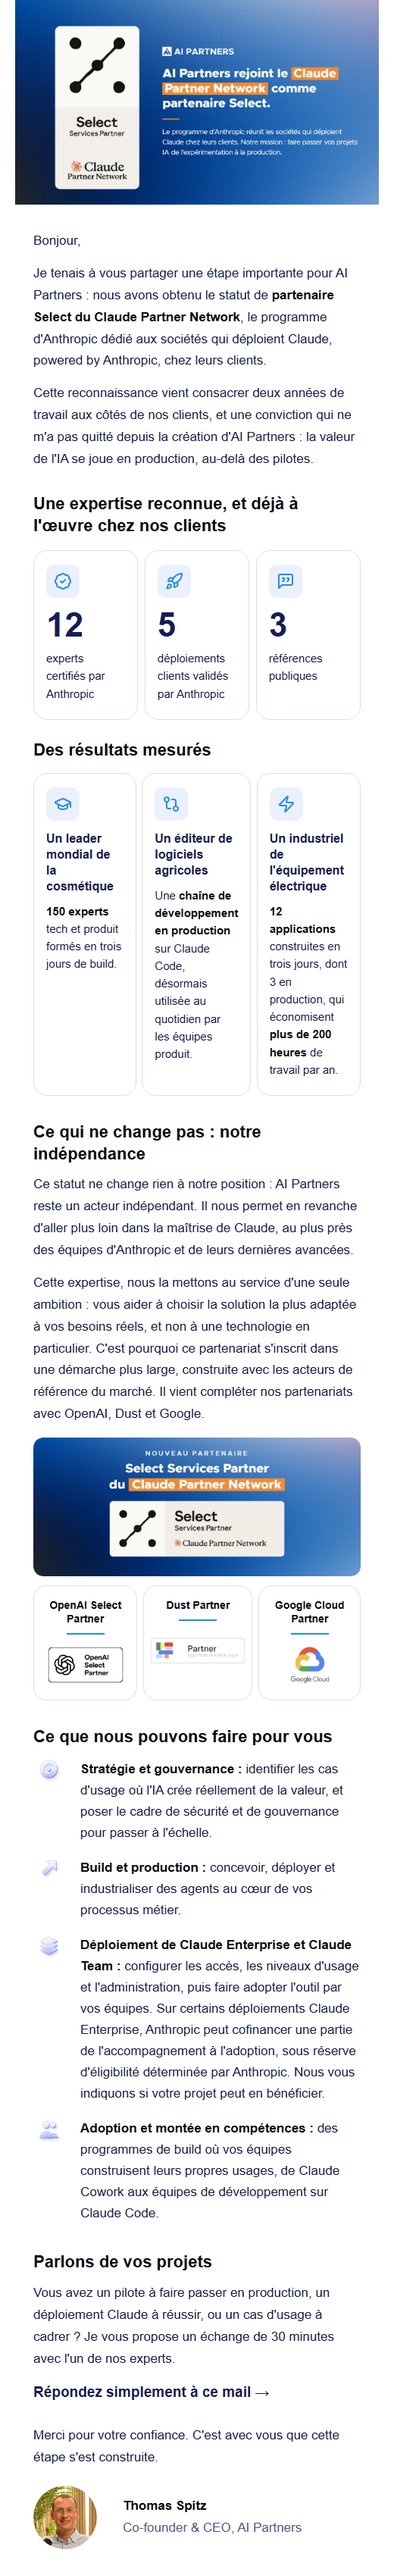
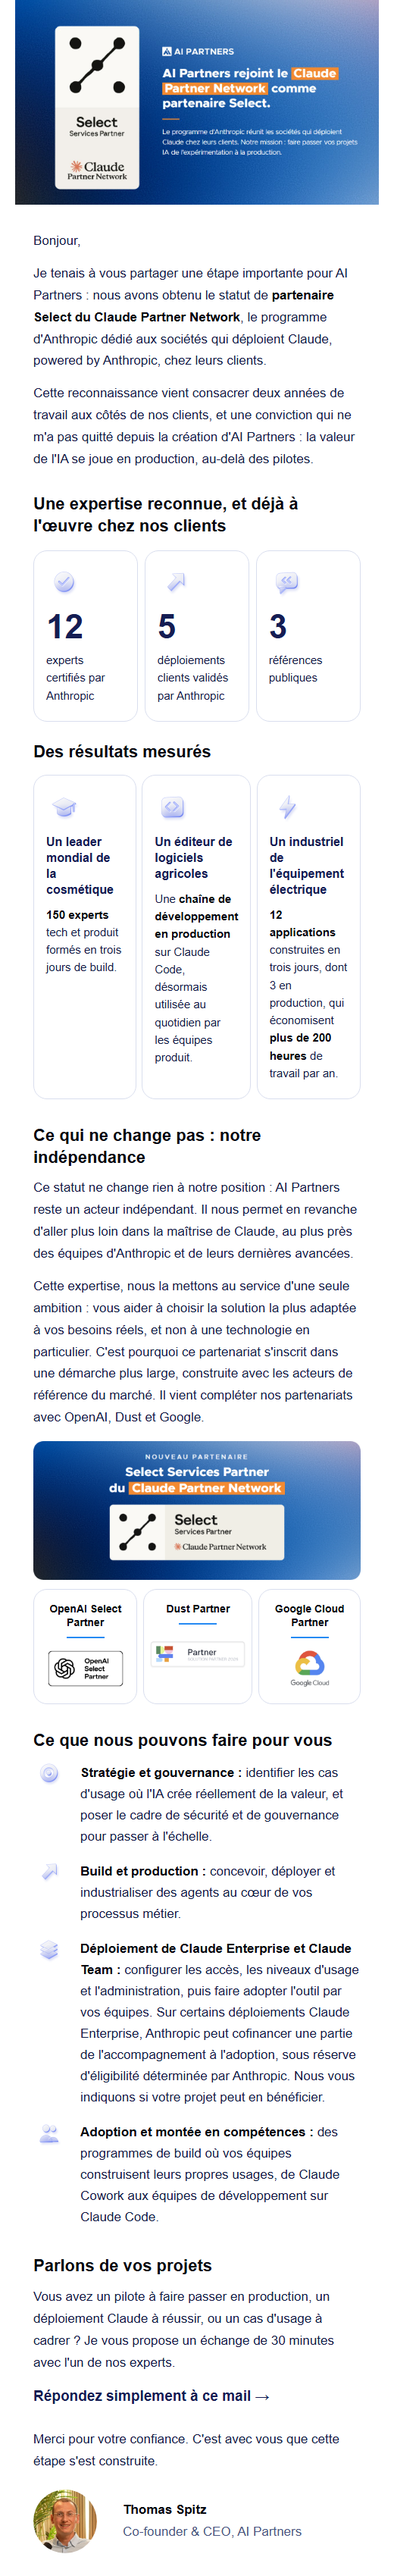
Mail d'annonce v2 : icônes en verre (style de la liste du bas) dans les carrés chiffres et résultats, nouvelles formes zap, toque, code (retour d'Arthur 16/11)

diff --git a/PRESENTATIONS/2026-11_newsletter_anthropic_select/v2/email_hubspot_module.html b/PRESENTATIONS/2026-11_newsletter_anthropic_select/v2/email_hubspot_module.html
@@ -6,9 +6,9 @@
 <tr><td style="padding:0 4px 14px 4px;font-family:Helvetica, Arial, sans-serif;font-size:17px;line-height:1.7;color:#141B45">Je tenais à vous partager une étape importante pour AI Partners&nbsp;: nous avons obtenu le statut de <strong style="color:#05070F">partenaire Select du Claude Partner Network</strong>, le programme d'Anthropic dédié aux sociétés qui déploient Claude, powered by Anthropic, chez leurs clients.</td></tr>
 <tr><td style="padding:0 4px 30px 4px;font-family:Helvetica, Arial, sans-serif;font-size:17px;line-height:1.7;color:#141B45">Cette reconnaissance vient consacrer deux années de travail aux côtés de nos clients, et une conviction qui ne m'a pas quitté depuis la création d'AI Partners&nbsp;: la valeur de l'IA se joue en production, au-delà des pilotes.</td></tr>
 <tr><td style="padding:0px 4px 12px 4px"><h2 style="margin:0;font-family:Helvetica, Arial, sans-serif;font-size:22px;line-height:1.3;font-weight:bold;color:#05070F">Une expertise reconnue, et déjà à l'œuvre chez nos clients</h2></td></tr>
-<tr><td style="padding:6px 4px 26px 4px"><table role="presentation" width="100%" cellpadding="0" cellspacing="0" style="border-collapse:separate"><tr><td valign="top" width="32%" bgcolor="#FFFFFF" style="width:32%;background-color:#FFFFFF;border:1px solid #D9DEEE;border-radius:18px;padding:18px 16px 22px 16px;font-family:Helvetica, Arial, sans-serif;font-size:15px;line-height:1.55;color:#141B45;text-align:left"><img src="https://arthurw31.github.io/ai-partners-podcast-content-machine/newsletters/anthropic-select/v2/pastille_badge-check.png" width="44" height="44" alt="" style="display:block;border:0;width:44px;height:44px;margin:0 0 14px 0"><div style="font-size:44px;line-height:1;font-weight:bold;color:#151D53">12</div><div style="padding-top:10px">experts certifiés par Anthropic</div></td><td width="2%" style="width:2%;font-size:0;line-height:0">&nbsp;</td><td valign="top" width="32%" bgcolor="#FFFFFF" style="width:32%;background-color:#FFFFFF;border:1px solid #D9DEEE;border-radius:18px;padding:18px 16px 22px 16px;font-family:Helvetica, Arial, sans-serif;font-size:15px;line-height:1.55;color:#141B45;text-align:left"><img src="https://arthurw31.github.io/ai-partners-podcast-content-machine/newsletters/anthropic-select/v2/pastille_rocket.png" width="44" height="44" alt="" style="display:block;border:0;width:44px;height:44px;margin:0 0 14px 0"><div style="font-size:44px;line-height:1;font-weight:bold;color:#151D53">5</div><div style="padding-top:10px">déploiements clients validés par Anthropic</div></td><td width="2%" style="width:2%;font-size:0;line-height:0">&nbsp;</td><td valign="top" width="32%" bgcolor="#FFFFFF" style="width:32%;background-color:#FFFFFF;border:1px solid #D9DEEE;border-radius:18px;padding:18px 16px 22px 16px;font-family:Helvetica, Arial, sans-serif;font-size:15px;line-height:1.55;color:#141B45;text-align:left"><img src="https://arthurw31.github.io/ai-partners-podcast-content-machine/newsletters/anthropic-select/v2/pastille_message-square-quote.png" width="44" height="44" alt="" style="display:block;border:0;width:44px;height:44px;margin:0 0 14px 0"><div style="font-size:44px;line-height:1;font-weight:bold;color:#151D53">3</div><div style="padding-top:10px">références publiques</div></td></tr></table></td></tr>
+<tr><td style="padding:6px 4px 26px 4px"><table role="presentation" width="100%" cellpadding="0" cellspacing="0" style="border-collapse:separate"><tr><td valign="top" width="32%" bgcolor="#FFFFFF" style="width:32%;background-color:#FFFFFF;border:1px solid #D9DEEE;border-radius:18px;padding:18px 16px 22px 16px;font-family:Helvetica, Arial, sans-serif;font-size:15px;line-height:1.55;color:#141B45;text-align:left"><img src="https://arthurw31.github.io/ai-partners-podcast-content-machine/newsletters/anthropic-select/v2/verre_badge-check_48.png" width="48" height="48" alt="" style="display:block;border:0;width:48px;height:48px;margin:0 0 12px 0"><div style="font-size:44px;line-height:1;font-weight:bold;color:#151D53">12</div><div style="padding-top:10px">experts certifiés par Anthropic</div></td><td width="2%" style="width:2%;font-size:0;line-height:0">&nbsp;</td><td valign="top" width="32%" bgcolor="#FFFFFF" style="width:32%;background-color:#FFFFFF;border:1px solid #D9DEEE;border-radius:18px;padding:18px 16px 22px 16px;font-family:Helvetica, Arial, sans-serif;font-size:15px;line-height:1.55;color:#141B45;text-align:left"><img src="https://arthurw31.github.io/ai-partners-podcast-content-machine/newsletters/anthropic-select/v2/verre_rocket_48.png" width="48" height="48" alt="" style="display:block;border:0;width:48px;height:48px;margin:0 0 12px 0"><div style="font-size:44px;line-height:1;font-weight:bold;color:#151D53">5</div><div style="padding-top:10px">déploiements clients validés par Anthropic</div></td><td width="2%" style="width:2%;font-size:0;line-height:0">&nbsp;</td><td valign="top" width="32%" bgcolor="#FFFFFF" style="width:32%;background-color:#FFFFFF;border:1px solid #D9DEEE;border-radius:18px;padding:18px 16px 22px 16px;font-family:Helvetica, Arial, sans-serif;font-size:15px;line-height:1.55;color:#141B45;text-align:left"><img src="https://arthurw31.github.io/ai-partners-podcast-content-machine/newsletters/anthropic-select/v2/verre_message-square-quote_48.png" width="48" height="48" alt="" style="display:block;border:0;width:48px;height:48px;margin:0 0 12px 0"><div style="font-size:44px;line-height:1;font-weight:bold;color:#151D53">3</div><div style="padding-top:10px">références publiques</div></td></tr></table></td></tr>
 <tr><td style="padding:0px 4px 12px 4px"><h2 style="margin:0;font-family:Helvetica, Arial, sans-serif;font-size:22px;line-height:1.3;font-weight:bold;color:#05070F">Des résultats mesurés</h2></td></tr>
-<tr><td style="padding:4px 4px 34px 4px"><table role="presentation" width="100%" cellpadding="0" cellspacing="0" style="border-collapse:separate"><tr><td valign="top" width="32%" bgcolor="#FFFFFF" style="width:32%;background-color:#FFFFFF;border:1px solid #D9DEEE;border-radius:18px;padding:18px 16px 22px 16px;font-family:Helvetica, Arial, sans-serif;font-size:15px;line-height:1.55;color:#141B45;text-align:left"><img src="https://arthurw31.github.io/ai-partners-podcast-content-machine/newsletters/anthropic-select/v2/pastille_graduation-cap.png" width="44" height="44" alt="" style="display:block;border:0;width:44px;height:44px;margin:0 0 14px 0"><div style="padding:0 0 10px 0;font-size:16px;line-height:1.3;font-weight:bold;color:#151D53">Un leader mondial de la cosmétique</div><strong style="color:#05070F">150 experts</strong> tech et produit formés en trois jours de build.</td><td width="2%" style="width:2%;font-size:0;line-height:0">&nbsp;</td><td valign="top" width="32%" bgcolor="#FFFFFF" style="width:32%;background-color:#FFFFFF;border:1px solid #D9DEEE;border-radius:18px;padding:18px 16px 22px 16px;font-family:Helvetica, Arial, sans-serif;font-size:15px;line-height:1.55;color:#141B45;text-align:left"><img src="https://arthurw31.github.io/ai-partners-podcast-content-machine/newsletters/anthropic-select/v2/pastille_git-compare.png" width="44" height="44" alt="" style="display:block;border:0;width:44px;height:44px;margin:0 0 14px 0"><div style="padding:0 0 10px 0;font-size:16px;line-height:1.3;font-weight:bold;color:#151D53">Un éditeur de logiciels agricoles</div>Une <strong style="color:#05070F">chaîne de développement en production</strong> sur Claude Code, désormais utilisée au quotidien par les équipes produit.</td><td width="2%" style="width:2%;font-size:0;line-height:0">&nbsp;</td><td valign="top" width="32%" bgcolor="#FFFFFF" style="width:32%;background-color:#FFFFFF;border:1px solid #D9DEEE;border-radius:18px;padding:18px 16px 22px 16px;font-family:Helvetica, Arial, sans-serif;font-size:15px;line-height:1.55;color:#141B45;text-align:left"><img src="https://arthurw31.github.io/ai-partners-podcast-content-machine/newsletters/anthropic-select/v2/pastille_zap.png" width="44" height="44" alt="" style="display:block;border:0;width:44px;height:44px;margin:0 0 14px 0"><div style="padding:0 0 10px 0;font-size:16px;line-height:1.3;font-weight:bold;color:#151D53">Un industriel de l'équipement électrique</div><strong style="color:#05070F">12 applications</strong> construites en trois jours, dont 3 en production, qui économisent <strong style="color:#05070F">plus de 200 heures</strong> de travail par an.</td></tr></table></td></tr>
+<tr><td style="padding:4px 4px 34px 4px"><table role="presentation" width="100%" cellpadding="0" cellspacing="0" style="border-collapse:separate"><tr><td valign="top" width="32%" bgcolor="#FFFFFF" style="width:32%;background-color:#FFFFFF;border:1px solid #D9DEEE;border-radius:18px;padding:18px 16px 22px 16px;font-family:Helvetica, Arial, sans-serif;font-size:15px;line-height:1.55;color:#141B45;text-align:left"><img src="https://arthurw31.github.io/ai-partners-podcast-content-machine/newsletters/anthropic-select/v2/verre_graduation-cap_48.png" width="48" height="48" alt="" style="display:block;border:0;width:48px;height:48px;margin:0 0 12px 0"><div style="padding:0 0 10px 0;font-size:16px;line-height:1.3;font-weight:bold;color:#151D53">Un leader mondial de la cosmétique</div><strong style="color:#05070F">150 experts</strong> tech et produit formés en trois jours de build.</td><td width="2%" style="width:2%;font-size:0;line-height:0">&nbsp;</td><td valign="top" width="32%" bgcolor="#FFFFFF" style="width:32%;background-color:#FFFFFF;border:1px solid #D9DEEE;border-radius:18px;padding:18px 16px 22px 16px;font-family:Helvetica, Arial, sans-serif;font-size:15px;line-height:1.55;color:#141B45;text-align:left"><img src="https://arthurw31.github.io/ai-partners-podcast-content-machine/newsletters/anthropic-select/v2/verre_code_48.png" width="48" height="48" alt="" style="display:block;border:0;width:48px;height:48px;margin:0 0 12px 0"><div style="padding:0 0 10px 0;font-size:16px;line-height:1.3;font-weight:bold;color:#151D53">Un éditeur de logiciels agricoles</div>Une <strong style="color:#05070F">chaîne de développement en production</strong> sur Claude Code, désormais utilisée au quotidien par les équipes produit.</td><td width="2%" style="width:2%;font-size:0;line-height:0">&nbsp;</td><td valign="top" width="32%" bgcolor="#FFFFFF" style="width:32%;background-color:#FFFFFF;border:1px solid #D9DEEE;border-radius:18px;padding:18px 16px 22px 16px;font-family:Helvetica, Arial, sans-serif;font-size:15px;line-height:1.55;color:#141B45;text-align:left"><img src="https://arthurw31.github.io/ai-partners-podcast-content-machine/newsletters/anthropic-select/v2/verre_zap_48.png" width="48" height="48" alt="" style="display:block;border:0;width:48px;height:48px;margin:0 0 12px 0"><div style="padding:0 0 10px 0;font-size:16px;line-height:1.3;font-weight:bold;color:#151D53">Un industriel de l'équipement électrique</div><strong style="color:#05070F">12 applications</strong> construites en trois jours, dont 3 en production, qui économisent <strong style="color:#05070F">plus de 200 heures</strong> de travail par an.</td></tr></table></td></tr>
 <tr><td style="padding:0px 4px 12px 4px"><h2 style="margin:0;font-family:Helvetica, Arial, sans-serif;font-size:22px;line-height:1.3;font-weight:bold;color:#05070F">Ce qui ne change pas&nbsp;: notre indépendance</h2></td></tr><tr><td style="padding:0 4px 14px 4px;font-family:Helvetica, Arial, sans-serif;font-size:17px;line-height:1.7;color:#141B45">Ce statut ne change rien à notre position&nbsp;: AI Partners reste un acteur indépendant. Il nous permet en revanche d'aller plus loin dans la maîtrise de Claude, au plus près des équipes d'Anthropic et de leurs dernières avancées.</td></tr><tr><td style="padding:0 4px 16px 4px;font-family:Helvetica, Arial, sans-serif;font-size:17px;line-height:1.7;color:#141B45">Cette expertise, nous la mettons au service d'une seule ambition&nbsp;: vous aider à choisir la solution la plus adaptée à vos besoins réels, et non à une technologie en particulier. C'est pourquoi ce partenariat s'inscrit dans une démarche plus large, construite avec les acteurs de référence du marché. Il vient compléter nos partenariats avec OpenAI, Dust et Google.</td></tr><tr><td style="padding:0 4px 34px 4px"><img src="https://arthurw31.github.io/ai-partners-podcast-content-machine/newsletters/anthropic-select/v2/encadre_nouveau_partenaire.png" width="592" height="250" alt="Nouveau partenaire : Select Services Partner du Claude Partner Network" style="display:block;border:0;width:592px;height:250px;width:100%;max-width:592px;height:auto"><div style="height:12px;font-size:0;line-height:0">&nbsp;</div><table role="presentation" width="100%" cellpadding="0" cellspacing="0" style="border-collapse:separate"><tr><td width="32%" valign="top" align="center" bgcolor="#FFFFFF" style="width:32%;border:1px solid #D9DEEE;border-radius:18px;padding:16px 6px 18px 6px;font-family:Helvetica, Arial, sans-serif;text-align:center"><div style="font-size:14px;line-height:1.3;font-weight:bold;color:#05070F">OpenAI Select Partner</div><table role="presentation" align="center" cellpadding="0" cellspacing="0" style="margin:10px auto 12px auto"><tr><td width="50" height="2" bgcolor="#258AF3" style="width:50px;height:2px;font-size:0;line-height:0">&nbsp;</td></tr></table><table role="presentation" align="center" cellpadding="0" cellspacing="0"><tr><td height="56" valign="middle" align="center" style="height:56px"><img src="https://arthurw31.github.io/ai-partners-podcast-content-machine/newsletters/anthropic-select/v2/partenaire_openai.png" width="106" height="54" alt="OpenAI Select Partner" style="display:block;border:0;width:106px;height:54px;"></td></tr></table></td><td width="2%" style="width:2%;font-size:0;line-height:0">&nbsp;</td><td width="32%" valign="top" align="center" bgcolor="#FFFFFF" style="width:32%;border:1px solid #D9DEEE;border-radius:18px;padding:16px 6px 18px 6px;font-family:Helvetica, Arial, sans-serif;text-align:center"><div style="font-size:14px;line-height:1.3;font-weight:bold;color:#05070F">Dust Partner</div><table role="presentation" align="center" cellpadding="0" cellspacing="0" style="margin:10px auto 12px auto"><tr><td width="50" height="2" bgcolor="#258AF3" style="width:50px;height:2px;font-size:0;line-height:0">&nbsp;</td></tr></table><table role="presentation" align="center" cellpadding="0" cellspacing="0"><tr><td height="56" valign="middle" align="center" style="height:56px"><img src="https://arthurw31.github.io/ai-partners-podcast-content-machine/newsletters/anthropic-select/v2/partenaire_dust.png" width="130" height="39" alt="Dust Partner" style="display:block;border:0;width:130px;height:39px;"></td></tr></table></td><td width="2%" style="width:2%;font-size:0;line-height:0">&nbsp;</td><td width="32%" valign="top" align="center" bgcolor="#FFFFFF" style="width:32%;border:1px solid #D9DEEE;border-radius:18px;padding:16px 6px 18px 6px;font-family:Helvetica, Arial, sans-serif;text-align:center"><div style="font-size:14px;line-height:1.3;font-weight:bold;color:#05070F">Google Cloud Partner</div><table role="presentation" align="center" cellpadding="0" cellspacing="0" style="margin:10px auto 12px auto"><tr><td width="50" height="2" bgcolor="#258AF3" style="width:50px;height:2px;font-size:0;line-height:0">&nbsp;</td></tr></table><table role="presentation" align="center" cellpadding="0" cellspacing="0"><tr><td height="56" valign="middle" align="center" style="height:56px"><img src="https://arthurw31.github.io/ai-partners-podcast-content-machine/newsletters/anthropic-select/v2/partenaire_google.png" width="58" height="56" alt="Google Cloud Partner" style="display:block;border:0;width:58px;height:56px;"></td></tr></table></td></tr></table></td></tr>
 <tr><td style="padding:0px 4px 12px 4px"><h2 style="margin:0;font-family:Helvetica, Arial, sans-serif;font-size:22px;line-height:1.3;font-weight:bold;color:#05070F">Ce que nous pouvons faire pour vous</h2></td></tr>
 <tr><td style="padding:0 4px 26px 4px"><table role="presentation" width="100%" cellpadding="0" cellspacing="0"><tr><td style="padding:2px 0 2px 0;font-family:Helvetica, Arial, sans-serif;font-size:17px;line-height:1.65;color:#141B45"><table role="presentation" width="100%" cellpadding="0" cellspacing="0"><tr><td valign="top" width="52" style="width:52px;padding:0 10px 0 0"><img src="https://arthurw31.github.io/ai-partners-podcast-content-machine/newsletters/anthropic-select/v2/verre_target_42.png" width="42" height="42" alt="" style="display:block;border:0;width:42px;height:42px;margin-top:-6px"></td><td valign="top" style="padding:0 0 18px 0;font-family:Helvetica, Arial, sans-serif;font-size:17px;line-height:1.65;color:#141B45"><strong style="color:#05070F">Stratégie et gouvernance&nbsp;:</strong> identifier les cas d'usage où l'IA crée réellement de la valeur, et poser le cadre de sécurité et de gouvernance pour passer à l'échelle.</td></tr></table><table role="presentation" width="100%" cellpadding="0" cellspacing="0"><tr><td valign="top" width="52" style="width:52px;padding:0 10px 0 0"><img src="https://arthurw31.github.io/ai-partners-podcast-content-machine/newsletters/anthropic-select/v2/verre_rocket_42.png" width="42" height="42" alt="" style="display:block;border:0;width:42px;height:42px;margin-top:-6px"></td><td valign="top" style="padding:0 0 18px 0;font-family:Helvetica, Arial, sans-serif;font-size:17px;line-height:1.65;color:#141B45"><strong style="color:#05070F">Build et production&nbsp;:</strong> concevoir, déployer et industrialiser des agents au cœur de vos processus métier.</td></tr></table><table role="presentation" width="100%" cellpadding="0" cellspacing="0"><tr><td valign="top" width="52" style="width:52px;padding:0 10px 0 0"><img src="https://arthurw31.github.io/ai-partners-podcast-content-machine/newsletters/anthropic-select/v2/verre_layers_42.png" width="42" height="42" alt="" style="display:block;border:0;width:42px;height:42px;margin-top:-6px"></td><td valign="top" style="padding:0 0 18px 0;font-family:Helvetica, Arial, sans-serif;font-size:17px;line-height:1.65;color:#141B45"><strong style="color:#05070F">Déploiement de Claude Enterprise et Claude Team&nbsp;:</strong> configurer les accès, les niveaux d'usage et l'administration, puis faire adopter l'outil par vos équipes. Sur certains déploiements Claude Enterprise, Anthropic peut cofinancer une partie de l'accompagnement à l'adoption, sous réserve d'éligibilité déterminée par Anthropic. Nous vous indiquons si votre projet peut en bénéficier.</td></tr></table><table role="presentation" width="100%" cellpadding="0" cellspacing="0"><tr><td valign="top" width="52" style="width:52px;padding:0 10px 0 0"><img src="https://arthurw31.github.io/ai-partners-podcast-content-machine/newsletters/anthropic-select/v2/verre_users_42.png" width="42" height="42" alt="" style="display:block;border:0;width:42px;height:42px;margin-top:-6px"></td><td valign="top" style="padding:0 0 0 0;font-family:Helvetica, Arial, sans-serif;font-size:17px;line-height:1.65;color:#141B45"><strong style="color:#05070F">Adoption et montée en compétences&nbsp;:</strong> des programmes de build où vos équipes construisent leurs propres usages, de Claude Cowork aux équipes de développement sur Claude Code.</td></tr></table></td></tr></table></td></tr>

diff --git a/PRESENTATIONS/2026-11_newsletter_anthropic_select/v2/email.html b/PRESENTATIONS/2026-11_newsletter_anthropic_select/v2/email.html
@@ -10,9 +10,9 @@
 <tr><td style="padding:0 4px 14px 4px;font-family:Helvetica, Arial, sans-serif;font-size:17px;line-height:1.7;color:#141B45">Je tenais à vous partager une étape importante pour AI Partners&nbsp;: nous avons obtenu le statut de <strong style="color:#05070F">partenaire Select du Claude Partner Network</strong>, le programme d'Anthropic dédié aux sociétés qui déploient Claude, powered by Anthropic, chez leurs clients.</td></tr>
 <tr><td style="padding:0 4px 30px 4px;font-family:Helvetica, Arial, sans-serif;font-size:17px;line-height:1.7;color:#141B45">Cette reconnaissance vient consacrer deux années de travail aux côtés de nos clients, et une conviction qui ne m'a pas quitté depuis la création d'AI Partners&nbsp;: la valeur de l'IA se joue en production, au-delà des pilotes.</td></tr>
 <tr><td style="padding:0px 4px 12px 4px"><h2 style="margin:0;font-family:Helvetica, Arial, sans-serif;font-size:22px;line-height:1.3;font-weight:bold;color:#05070F">Une expertise reconnue, et déjà à l'œuvre chez nos clients</h2></td></tr>
-<tr><td style="padding:6px 4px 26px 4px"><table role="presentation" width="100%" cellpadding="0" cellspacing="0" style="border-collapse:separate"><tr><td valign="top" width="32%" bgcolor="#FFFFFF" style="width:32%;background-color:#FFFFFF;border:1px solid #D9DEEE;border-radius:18px;padding:18px 16px 22px 16px;font-family:Helvetica, Arial, sans-serif;font-size:15px;line-height:1.55;color:#141B45;text-align:left"><img src="images/pastille_badge-check.png" width="44" height="44" alt="" style="display:block;border:0;width:44px;height:44px;margin:0 0 14px 0"><div style="font-size:44px;line-height:1;font-weight:bold;color:#151D53">12</div><div style="padding-top:10px">experts certifiés par Anthropic</div></td><td width="2%" style="width:2%;font-size:0;line-height:0">&nbsp;</td><td valign="top" width="32%" bgcolor="#FFFFFF" style="width:32%;background-color:#FFFFFF;border:1px solid #D9DEEE;border-radius:18px;padding:18px 16px 22px 16px;font-family:Helvetica, Arial, sans-serif;font-size:15px;line-height:1.55;color:#141B45;text-align:left"><img src="images/pastille_rocket.png" width="44" height="44" alt="" style="display:block;border:0;width:44px;height:44px;margin:0 0 14px 0"><div style="font-size:44px;line-height:1;font-weight:bold;color:#151D53">5</div><div style="padding-top:10px">déploiements clients validés par Anthropic</div></td><td width="2%" style="width:2%;font-size:0;line-height:0">&nbsp;</td><td valign="top" width="32%" bgcolor="#FFFFFF" style="width:32%;background-color:#FFFFFF;border:1px solid #D9DEEE;border-radius:18px;padding:18px 16px 22px 16px;font-family:Helvetica, Arial, sans-serif;font-size:15px;line-height:1.55;color:#141B45;text-align:left"><img src="images/pastille_message-square-quote.png" width="44" height="44" alt="" style="display:block;border:0;width:44px;height:44px;margin:0 0 14px 0"><div style="font-size:44px;line-height:1;font-weight:bold;color:#151D53">3</div><div style="padding-top:10px">références publiques</div></td></tr></table></td></tr>
+<tr><td style="padding:6px 4px 26px 4px"><table role="presentation" width="100%" cellpadding="0" cellspacing="0" style="border-collapse:separate"><tr><td valign="top" width="32%" bgcolor="#FFFFFF" style="width:32%;background-color:#FFFFFF;border:1px solid #D9DEEE;border-radius:18px;padding:18px 16px 22px 16px;font-family:Helvetica, Arial, sans-serif;font-size:15px;line-height:1.55;color:#141B45;text-align:left"><img src="images/verre_badge-check_48.png" width="48" height="48" alt="" style="display:block;border:0;width:48px;height:48px;margin:0 0 12px 0"><div style="font-size:44px;line-height:1;font-weight:bold;color:#151D53">12</div><div style="padding-top:10px">experts certifiés par Anthropic</div></td><td width="2%" style="width:2%;font-size:0;line-height:0">&nbsp;</td><td valign="top" width="32%" bgcolor="#FFFFFF" style="width:32%;background-color:#FFFFFF;border:1px solid #D9DEEE;border-radius:18px;padding:18px 16px 22px 16px;font-family:Helvetica, Arial, sans-serif;font-size:15px;line-height:1.55;color:#141B45;text-align:left"><img src="images/verre_rocket_48.png" width="48" height="48" alt="" style="display:block;border:0;width:48px;height:48px;margin:0 0 12px 0"><div style="font-size:44px;line-height:1;font-weight:bold;color:#151D53">5</div><div style="padding-top:10px">déploiements clients validés par Anthropic</div></td><td width="2%" style="width:2%;font-size:0;line-height:0">&nbsp;</td><td valign="top" width="32%" bgcolor="#FFFFFF" style="width:32%;background-color:#FFFFFF;border:1px solid #D9DEEE;border-radius:18px;padding:18px 16px 22px 16px;font-family:Helvetica, Arial, sans-serif;font-size:15px;line-height:1.55;color:#141B45;text-align:left"><img src="images/verre_message-square-quote_48.png" width="48" height="48" alt="" style="display:block;border:0;width:48px;height:48px;margin:0 0 12px 0"><div style="font-size:44px;line-height:1;font-weight:bold;color:#151D53">3</div><div style="padding-top:10px">références publiques</div></td></tr></table></td></tr>
 <tr><td style="padding:0px 4px 12px 4px"><h2 style="margin:0;font-family:Helvetica, Arial, sans-serif;font-size:22px;line-height:1.3;font-weight:bold;color:#05070F">Des résultats mesurés</h2></td></tr>
-<tr><td style="padding:4px 4px 34px 4px"><table role="presentation" width="100%" cellpadding="0" cellspacing="0" style="border-collapse:separate"><tr><td valign="top" width="32%" bgcolor="#FFFFFF" style="width:32%;background-color:#FFFFFF;border:1px solid #D9DEEE;border-radius:18px;padding:18px 16px 22px 16px;font-family:Helvetica, Arial, sans-serif;font-size:15px;line-height:1.55;color:#141B45;text-align:left"><img src="images/pastille_graduation-cap.png" width="44" height="44" alt="" style="display:block;border:0;width:44px;height:44px;margin:0 0 14px 0"><div style="padding:0 0 10px 0;font-size:16px;line-height:1.3;font-weight:bold;color:#151D53">Un leader mondial de la cosmétique</div><strong style="color:#05070F">150 experts</strong> tech et produit formés en trois jours de build.</td><td width="2%" style="width:2%;font-size:0;line-height:0">&nbsp;</td><td valign="top" width="32%" bgcolor="#FFFFFF" style="width:32%;background-color:#FFFFFF;border:1px solid #D9DEEE;border-radius:18px;padding:18px 16px 22px 16px;font-family:Helvetica, Arial, sans-serif;font-size:15px;line-height:1.55;color:#141B45;text-align:left"><img src="images/pastille_git-compare.png" width="44" height="44" alt="" style="display:block;border:0;width:44px;height:44px;margin:0 0 14px 0"><div style="padding:0 0 10px 0;font-size:16px;line-height:1.3;font-weight:bold;color:#151D53">Un éditeur de logiciels agricoles</div>Une <strong style="color:#05070F">chaîne de développement en production</strong> sur Claude Code, désormais utilisée au quotidien par les équipes produit.</td><td width="2%" style="width:2%;font-size:0;line-height:0">&nbsp;</td><td valign="top" width="32%" bgcolor="#FFFFFF" style="width:32%;background-color:#FFFFFF;border:1px solid #D9DEEE;border-radius:18px;padding:18px 16px 22px 16px;font-family:Helvetica, Arial, sans-serif;font-size:15px;line-height:1.55;color:#141B45;text-align:left"><img src="images/pastille_zap.png" width="44" height="44" alt="" style="display:block;border:0;width:44px;height:44px;margin:0 0 14px 0"><div style="padding:0 0 10px 0;font-size:16px;line-height:1.3;font-weight:bold;color:#151D53">Un industriel de l'équipement électrique</div><strong style="color:#05070F">12 applications</strong> construites en trois jours, dont 3 en production, qui économisent <strong style="color:#05070F">plus de 200 heures</strong> de travail par an.</td></tr></table></td></tr>
+<tr><td style="padding:4px 4px 34px 4px"><table role="presentation" width="100%" cellpadding="0" cellspacing="0" style="border-collapse:separate"><tr><td valign="top" width="32%" bgcolor="#FFFFFF" style="width:32%;background-color:#FFFFFF;border:1px solid #D9DEEE;border-radius:18px;padding:18px 16px 22px 16px;font-family:Helvetica, Arial, sans-serif;font-size:15px;line-height:1.55;color:#141B45;text-align:left"><img src="images/verre_graduation-cap_48.png" width="48" height="48" alt="" style="display:block;border:0;width:48px;height:48px;margin:0 0 12px 0"><div style="padding:0 0 10px 0;font-size:16px;line-height:1.3;font-weight:bold;color:#151D53">Un leader mondial de la cosmétique</div><strong style="color:#05070F">150 experts</strong> tech et produit formés en trois jours de build.</td><td width="2%" style="width:2%;font-size:0;line-height:0">&nbsp;</td><td valign="top" width="32%" bgcolor="#FFFFFF" style="width:32%;background-color:#FFFFFF;border:1px solid #D9DEEE;border-radius:18px;padding:18px 16px 22px 16px;font-family:Helvetica, Arial, sans-serif;font-size:15px;line-height:1.55;color:#141B45;text-align:left"><img src="images/verre_code_48.png" width="48" height="48" alt="" style="display:block;border:0;width:48px;height:48px;margin:0 0 12px 0"><div style="padding:0 0 10px 0;font-size:16px;line-height:1.3;font-weight:bold;color:#151D53">Un éditeur de logiciels agricoles</div>Une <strong style="color:#05070F">chaîne de développement en production</strong> sur Claude Code, désormais utilisée au quotidien par les équipes produit.</td><td width="2%" style="width:2%;font-size:0;line-height:0">&nbsp;</td><td valign="top" width="32%" bgcolor="#FFFFFF" style="width:32%;background-color:#FFFFFF;border:1px solid #D9DEEE;border-radius:18px;padding:18px 16px 22px 16px;font-family:Helvetica, Arial, sans-serif;font-size:15px;line-height:1.55;color:#141B45;text-align:left"><img src="images/verre_zap_48.png" width="48" height="48" alt="" style="display:block;border:0;width:48px;height:48px;margin:0 0 12px 0"><div style="padding:0 0 10px 0;font-size:16px;line-height:1.3;font-weight:bold;color:#151D53">Un industriel de l'équipement électrique</div><strong style="color:#05070F">12 applications</strong> construites en trois jours, dont 3 en production, qui économisent <strong style="color:#05070F">plus de 200 heures</strong> de travail par an.</td></tr></table></td></tr>
 <tr><td style="padding:0px 4px 12px 4px"><h2 style="margin:0;font-family:Helvetica, Arial, sans-serif;font-size:22px;line-height:1.3;font-weight:bold;color:#05070F">Ce qui ne change pas&nbsp;: notre indépendance</h2></td></tr><tr><td style="padding:0 4px 14px 4px;font-family:Helvetica, Arial, sans-serif;font-size:17px;line-height:1.7;color:#141B45">Ce statut ne change rien à notre position&nbsp;: AI Partners reste un acteur indépendant. Il nous permet en revanche d'aller plus loin dans la maîtrise de Claude, au plus près des équipes d'Anthropic et de leurs dernières avancées.</td></tr><tr><td style="padding:0 4px 16px 4px;font-family:Helvetica, Arial, sans-serif;font-size:17px;line-height:1.7;color:#141B45">Cette expertise, nous la mettons au service d'une seule ambition&nbsp;: vous aider à choisir la solution la plus adaptée à vos besoins réels, et non à une technologie en particulier. C'est pourquoi ce partenariat s'inscrit dans une démarche plus large, construite avec les acteurs de référence du marché. Il vient compléter nos partenariats avec OpenAI, Dust et Google.</td></tr><tr><td style="padding:0 4px 34px 4px"><img src="images/encadre_nouveau_partenaire.png" width="592" height="250" alt="Nouveau partenaire : Select Services Partner du Claude Partner Network" style="display:block;border:0;width:592px;height:250px;width:100%;max-width:592px;height:auto"><div style="height:12px;font-size:0;line-height:0">&nbsp;</div><table role="presentation" width="100%" cellpadding="0" cellspacing="0" style="border-collapse:separate"><tr><td width="32%" valign="top" align="center" bgcolor="#FFFFFF" style="width:32%;border:1px solid #D9DEEE;border-radius:18px;padding:16px 6px 18px 6px;font-family:Helvetica, Arial, sans-serif;text-align:center"><div style="font-size:14px;line-height:1.3;font-weight:bold;color:#05070F">OpenAI Select Partner</div><table role="presentation" align="center" cellpadding="0" cellspacing="0" style="margin:10px auto 12px auto"><tr><td width="50" height="2" bgcolor="#258AF3" style="width:50px;height:2px;font-size:0;line-height:0">&nbsp;</td></tr></table><table role="presentation" align="center" cellpadding="0" cellspacing="0"><tr><td height="56" valign="middle" align="center" style="height:56px"><img src="images/partenaire_openai.png" width="106" height="54" alt="OpenAI Select Partner" style="display:block;border:0;width:106px;height:54px;"></td></tr></table></td><td width="2%" style="width:2%;font-size:0;line-height:0">&nbsp;</td><td width="32%" valign="top" align="center" bgcolor="#FFFFFF" style="width:32%;border:1px solid #D9DEEE;border-radius:18px;padding:16px 6px 18px 6px;font-family:Helvetica, Arial, sans-serif;text-align:center"><div style="font-size:14px;line-height:1.3;font-weight:bold;color:#05070F">Dust Partner</div><table role="presentation" align="center" cellpadding="0" cellspacing="0" style="margin:10px auto 12px auto"><tr><td width="50" height="2" bgcolor="#258AF3" style="width:50px;height:2px;font-size:0;line-height:0">&nbsp;</td></tr></table><table role="presentation" align="center" cellpadding="0" cellspacing="0"><tr><td height="56" valign="middle" align="center" style="height:56px"><img src="images/partenaire_dust.png" width="130" height="39" alt="Dust Partner" style="display:block;border:0;width:130px;height:39px;"></td></tr></table></td><td width="2%" style="width:2%;font-size:0;line-height:0">&nbsp;</td><td width="32%" valign="top" align="center" bgcolor="#FFFFFF" style="width:32%;border:1px solid #D9DEEE;border-radius:18px;padding:16px 6px 18px 6px;font-family:Helvetica, Arial, sans-serif;text-align:center"><div style="font-size:14px;line-height:1.3;font-weight:bold;color:#05070F">Google Cloud Partner</div><table role="presentation" align="center" cellpadding="0" cellspacing="0" style="margin:10px auto 12px auto"><tr><td width="50" height="2" bgcolor="#258AF3" style="width:50px;height:2px;font-size:0;line-height:0">&nbsp;</td></tr></table><table role="presentation" align="center" cellpadding="0" cellspacing="0"><tr><td height="56" valign="middle" align="center" style="height:56px"><img src="images/partenaire_google.png" width="58" height="56" alt="Google Cloud Partner" style="display:block;border:0;width:58px;height:56px;"></td></tr></table></td></tr></table></td></tr>
 <tr><td style="padding:0px 4px 12px 4px"><h2 style="margin:0;font-family:Helvetica, Arial, sans-serif;font-size:22px;line-height:1.3;font-weight:bold;color:#05070F">Ce que nous pouvons faire pour vous</h2></td></tr>
 <tr><td style="padding:0 4px 26px 4px"><table role="presentation" width="100%" cellpadding="0" cellspacing="0"><tr><td style="padding:2px 0 2px 0;font-family:Helvetica, Arial, sans-serif;font-size:17px;line-height:1.65;color:#141B45"><table role="presentation" width="100%" cellpadding="0" cellspacing="0"><tr><td valign="top" width="52" style="width:52px;padding:0 10px 0 0"><img src="images/verre_target_42.png" width="42" height="42" alt="" style="display:block;border:0;width:42px;height:42px;margin-top:-6px"></td><td valign="top" style="padding:0 0 18px 0;font-family:Helvetica, Arial, sans-serif;font-size:17px;line-height:1.65;color:#141B45"><strong style="color:#05070F">Stratégie et gouvernance&nbsp;:</strong> identifier les cas d'usage où l'IA crée réellement de la valeur, et poser le cadre de sécurité et de gouvernance pour passer à l'échelle.</td></tr></table><table role="presentation" width="100%" cellpadding="0" cellspacing="0"><tr><td valign="top" width="52" style="width:52px;padding:0 10px 0 0"><img src="images/verre_rocket_42.png" width="42" height="42" alt="" style="display:block;border:0;width:42px;height:42px;margin-top:-6px"></td><td valign="top" style="padding:0 0 18px 0;font-family:Helvetica, Arial, sans-serif;font-size:17px;line-height:1.65;color:#141B45"><strong style="color:#05070F">Build et production&nbsp;:</strong> concevoir, déployer et industrialiser des agents au cœur de vos processus métier.</td></tr></table><table role="presentation" width="100%" cellpadding="0" cellspacing="0"><tr><td valign="top" width="52" style="width:52px;padding:0 10px 0 0"><img src="images/verre_layers_42.png" width="42" height="42" alt="" style="display:block;border:0;width:42px;height:42px;margin-top:-6px"></td><td valign="top" style="padding:0 0 18px 0;font-family:Helvetica, Arial, sans-serif;font-size:17px;line-height:1.65;color:#141B45"><strong style="color:#05070F">Déploiement de Claude Enterprise et Claude Team&nbsp;:</strong> configurer les accès, les niveaux d'usage et l'administration, puis faire adopter l'outil par vos équipes. Sur certains déploiements Claude Enterprise, Anthropic peut cofinancer une partie de l'accompagnement à l'adoption, sous réserve d'éligibilité déterminée par Anthropic. Nous vous indiquons si votre projet peut en bénéficier.</td></tr></table><table role="presentation" width="100%" cellpadding="0" cellspacing="0"><tr><td valign="top" width="52" style="width:52px;padding:0 10px 0 0"><img src="images/verre_users_42.png" width="42" height="42" alt="" style="display:block;border:0;width:42px;height:42px;margin-top:-6px"></td><td valign="top" style="padding:0 0 0 0;font-family:Helvetica, Arial, sans-serif;font-size:17px;line-height:1.65;color:#141B45"><strong style="color:#05070F">Adoption et montée en compétences&nbsp;:</strong> des programmes de build où vos équipes construisent leurs propres usages, de Claude Cowork aux équipes de développement sur Claude Code.</td></tr></table></td></tr></table></td></tr>

diff --git a/PRESENTATIONS/2026-11_newsletter_anthropic_select/v2/build_v2.py b/PRESENTATIONS/2026-11_newsletter_anthropic_select/v2/build_v2.py
@@ -75,17 +75,17 @@ ICONS = ROOT / "MARQUES" / "ai-corner" / "assets" / "icons"
 
 
 def tile_icon(name: str) -> str:
-    """Pictogramme Lucide (ISC) en traits bleus sur une pastille bleu très pâle, rendu par Chrome en 2x (88 px pour 44 px affichés).
-    Arthur, 16/11/2026 : des icônes qui correspondent au contenu, en haut à gauche des carrés (pas d'icônes en verre, « des emoji »)."""
-    out = IMG / f"pastille_{name}.png"
-    svg = (ICONS / f"lucide_{name}.svg").read_text(encoding="utf-8").replace("currentColor", BLUE)
-    tmp = HERE / f"_{name}.svg"
-    tmp.write_text(svg, encoding="utf-8")
-    page = (f"<html><body style='margin:0;background:#FFFFFF'><div style='width:88px;height:88px;border-radius:22px;background:#EAF1FD;"
-            f"display:flex;align-items:center;justify-content:center'><img src='{_uri(tmp)}' style='width:48px;height:48px'></div>"
-            f"</body></html>")
-    _shot(page, 88, 88, out)
-    tmp.unlink()
+    """Icône en VERRE 3D, même style que celles de la liste du bas (Arthur, 16/11/2026 : « mets le même style d'icône qu'en bas »),
+    sujet choisi d'après le carré ; fabriquée par clipper.newsletter_lab.icones_verre (pictogramme Lucide en verre), 2x pour 48 px."""
+    from clipper.newsletter_lab.icones_verre import FORMES, glass
+    # formes ajoutées pour les carrés résultats (même dessin en verre que les autres : silhouette pleine + gravure)
+    FORMES.setdefault("zap", ('<path d="M114 26 L48 114 L96 114 L82 174 L152 84 L104 84 Z"/>', ''))
+    FORMES.setdefault("graduation-cap", ('<path d="M100 42 L178 80 L100 118 L22 80 Z"/><path d="M56 102 L56 142 Q100 170 144 142 '
+                                         'L144 102 L100 124 Z"/>', '<path d="M166 88 L166 132"/>'))
+    FORMES.setdefault("code", ('<rect x="30" y="38" width="140" height="124" rx="28"/>',
+                               '<path d="M86 74 L60 100 L86 126 M114 74 L140 100 L114 126"/>'))
+    out = IMG / f"verre_{name}_48.png"
+    Image.open(glass(name, theme="verre")).resize((96, 96), Image.Resampling.LANCZOS).save(out)
     return out.name
 
 
@@ -93,8 +93,8 @@ def square(icon: str, inner: str) -> str:
     """Carré à bord fin, pastille d'icône en haut à gauche, contenu aligné à gauche dessous."""
     return (f'<td valign="top" width="32%" bgcolor="#FFFFFF" style="width:32%;background-color:#FFFFFF;border:1px solid {BORDER};'
             f'border-radius:18px;padding:18px 16px 22px 16px;{F};font-size:15px;line-height:1.55;color:{TEXT};text-align:left">'
-            f'<img src="images/{tile_icon(icon)}" width="44" height="44" alt="" style="display:block;border:0;width:44px;height:44px;'
-            f'margin:0 0 14px 0">{inner}</td>')
+            f'<img src="images/{tile_icon(icon)}" width="48" height="48" alt="" style="display:block;border:0;width:48px;height:48px;'
+            f'margin:0 0 12px 0">{inner}</td>')
 
 
 def row(cells: list, pad: str) -> str:
@@ -106,7 +106,7 @@ def clients() -> str:
     # clients ANONYMISÉS : « une entreprise de tel secteur » à la place du nom et du logo (Arthur, 16/11/2026)
     data = [("graduation-cap", "Un leader mondial de la cosmétique", strong("150 experts") + " tech et produit formés en trois jours "
              "de build."),
-            ("git-compare", "Un éditeur de logiciels agricoles", "Une " + strong("chaîne de développement en production") + " sur "
+            ("code", "Un éditeur de logiciels agricoles", "Une " + strong("chaîne de développement en production") + " sur "
              "Claude Code, désormais utilisée au quotidien par les équipes produit."),
             ("zap", "Un industriel de l'équipement électrique", strong("12 applications") + " construites en trois jours, dont 3 en "
              "production, qui économisent " + strong("plus de 200 heures") + " de travail par an.")]
